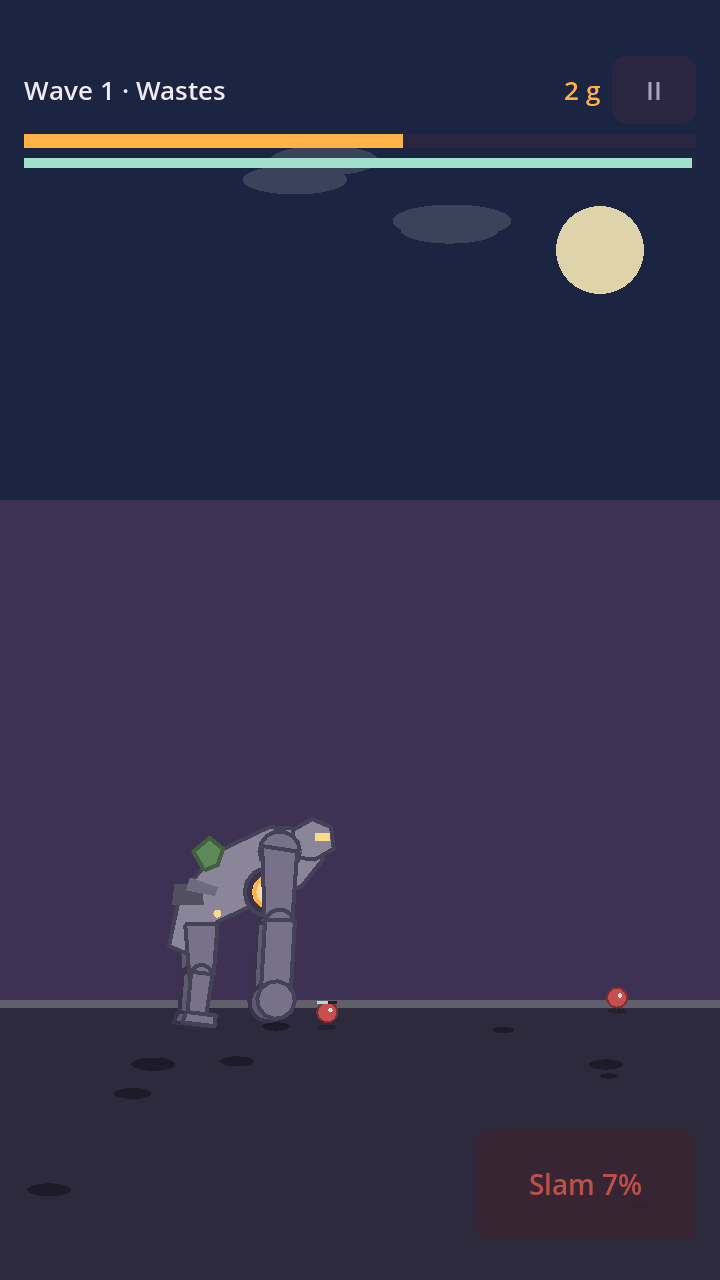
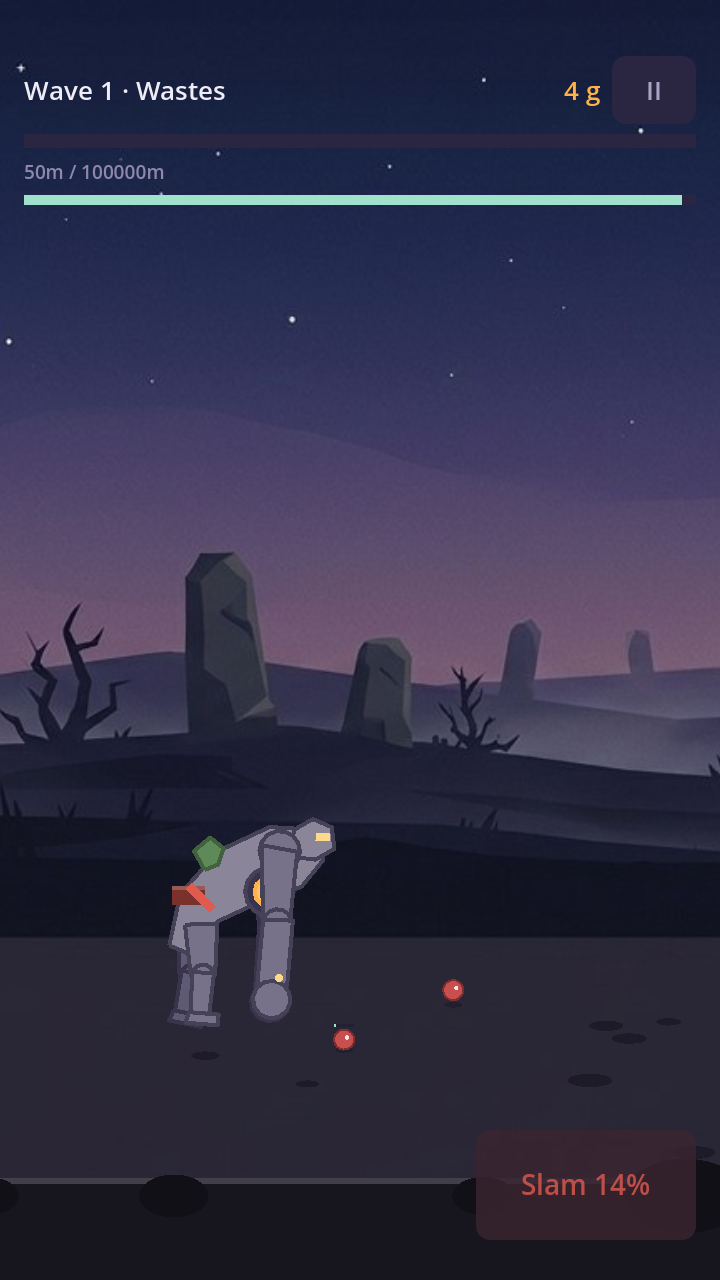
Art revamp round 1: Moonlit Megalith painted art + background QA launches
Nine Nano Banana images (Gemini API, ~$0.54) integrated: menu key art
with ken-burns drift, five themed march backdrops (mirror-tiled parallax),
path-map mountain backdrop under the terrain shader (which now respects
modulate), category emblems on draft cards, weapon emblems in the armory,
new app icon. Procedural drawing kept as fallback when art is absent.
Settings autoload honors --background (NO_FOCUS + off-screen park) for
windowed QA runs. Masters in art/src (gdignored); game copies in game/art.
Tests 5,098 pass; shot suite verified; web build deployed to gh-pages.

Claude-Session: https://claude.ai/code/session_015ovLYcXmizKwDHRmw7Gi4x

diff --git a/docs/PROJECT_LOG.md b/docs/PROJECT_LOG.md
@@ -68,17 +68,43 @@ this repo in parallel — pull/rebase before pushing, and keep entries factual.
 
 - Graphics revamp with Nano Banana (asked 2026-09-09): revamp the graphics
   toward a consistent, modern, artsy, beautiful theme using AI-generated
-  raster art. **Standing workflow rule:** the owner generates all AI images
-  themselves in the Gemini web app (browser subscription) — agents write
-  copy-paste prompts and integrate the results; agents must NOT call the
-  Gemini API. Prompt sheet + art direction ("Moonlit Megalith") + integration
-  plan: `docs/ART_PROMPTS.md`. Owner drops generated PNGs into `art/src/`.
+  raster art. Art direction ("Moonlit Megalith") + prompts: `docs/ART_PROMPTS.md`.
+- **Superseded** (same day): the browser-only generation workflow. New
+  standing rule: agents MAY call the Gemini API (owner's key) but must be
+  cost-efficient — combine assets into one sprite-sheet generation where
+  slicing is safe, default to 1K resolution, use the cheapest model that
+  meets quality (`gemini-3.1-flash-lite-image` for emblems/icons,
+  `gemini-3.1-flash-image` for hero scenery), and state the estimated cost
+  before running a batch.
 
 ## Changelog
 
 Newest first. Format: date · commit(s) · summary.
 
-- 2026-09-09 · `docs` · Graphics-revamp ask recorded. Added
+- 2026-09-09 · `(this commit)` · Background QA launches (owner ask: never
+  switch/steal the owner's window). `settings.gd` now honors a `--background`
+  user arg: NO_FOCUS window flag + park past the rightmost monitor edge.
+  Launch windowed QA runs with `--position 10000,80 -- --background`
+  (documented in README + CLAUDE.md). Never minimize — it throttles the
+  swapchain and hangs shot runs.
+- 2026-09-09 · `(this commit)` · Art revamp round 1 integrated. Nine
+  Nano Banana images generated via the Gemini API (~$0.54: 7x
+  `gemini-3.1-flash-image`, 2x lite; masters in `art/src/`, game copies in
+  `game/art/`). Main menu: painted key art background (golem under the moon)
+  with slow ken-burns drift, buttons moved to the bottom; procedural
+  golem/ground kept as fallback when art is absent. March: per-theme painted
+  backdrops (wastes/fire/forest/water/boss) drawn mirror-tiled with slow
+  parallax in `_draw_bg`; procedural sky/hills remain as fallback; ground
+  rocks still code-drawn. Path map: painted mountain-journey backdrop under
+  the `map_terrain` shader, which now respects modulate (was hardcoded
+  opaque) and blends at 0.25 as a haze/vignette/ridge pass. Draft cards:
+  carved-stone category emblems (attack/econ/speed) on a dark plaque.
+  Armory: weapon emblems (cannon/mortar/javelin) beside line names. App
+  icon replaced (`ios_icon_1024.png`, `game/art/icon_512.png`, project
+  icon). Emblems sliced from one generated sprite sheet; scenery stored as
+  JPEG (game/art ~1.4 MB). Tests 5,098 pass; 8-shot suite verified; repo
+  screenshots refreshed. Web build deployed to gh-pages.
+- 2026-09-09 · `83ff197` · Graphics-revamp ask recorded. Added
   `docs/ART_PROMPTS.md`: "Moonlit Megalith" art direction, 14 Nano Banana
   prompts (menu key art, 5 themed march backdrops, path-map backdrop, 6
   emblems, app icon) with exact filenames/ratios, owner browser workflow,

diff --git a/CLAUDE.md b/CLAUDE.md
@@ -10,7 +10,10 @@ Non-negotiables for every agent session (Claude or otherwise):
    new owner ask or design direction must be recorded in its sections.
 2. **Hands-free only.** The owner never opens the Godot editor. Ship complete
    files and validate headless (parse checks, scripted smoke tests, xvfb
-   offscreen renders for visuals).
+   offscreen renders for visuals). When a windowed run is unavoidable (e.g.
+   the screenshot suite), ALWAYS launch with `--position 10000,80 -- --background`
+   — the Settings autoload then parks the window off-screen with NO_FOCUS so
+   the owner's active window is never disturbed. Never minimize instead.
 3. **Keep the web preview current.** After visual or gameplay changes, export
    the Web preset headless and push the build to `gh-pages` (manual deploy,
    no CI).

diff --git a/README.md b/README.md
@@ -11,9 +11,10 @@ converge on the wave-10 boss.
     godot --headless --path . --import  # first run only: builds class cache
     godot --headless --path . --script tests/run_tests.gd   # property tests
 
-Visual verification without opening the engine:
+Visual verification without opening the engine (always pass the background
+flags so the game window never appears on screen or steals focus):
 
-    STONESTRIDE_SHOTS=/tmp/shots godot --path .   # captures menu/march/draft/path PNGs
+    STONESTRIDE_SHOTS=/tmp/shots godot --path . --position 10000,80 -- --background
 
 ## Layout
 
